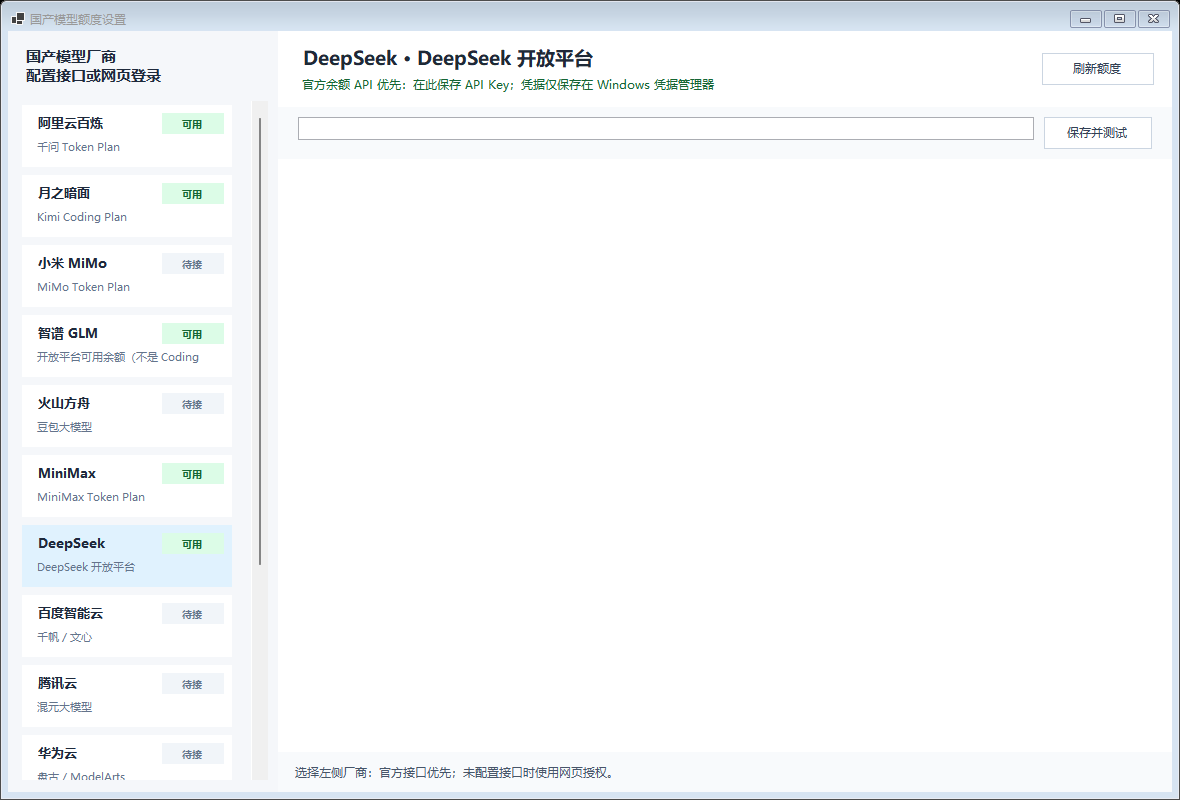
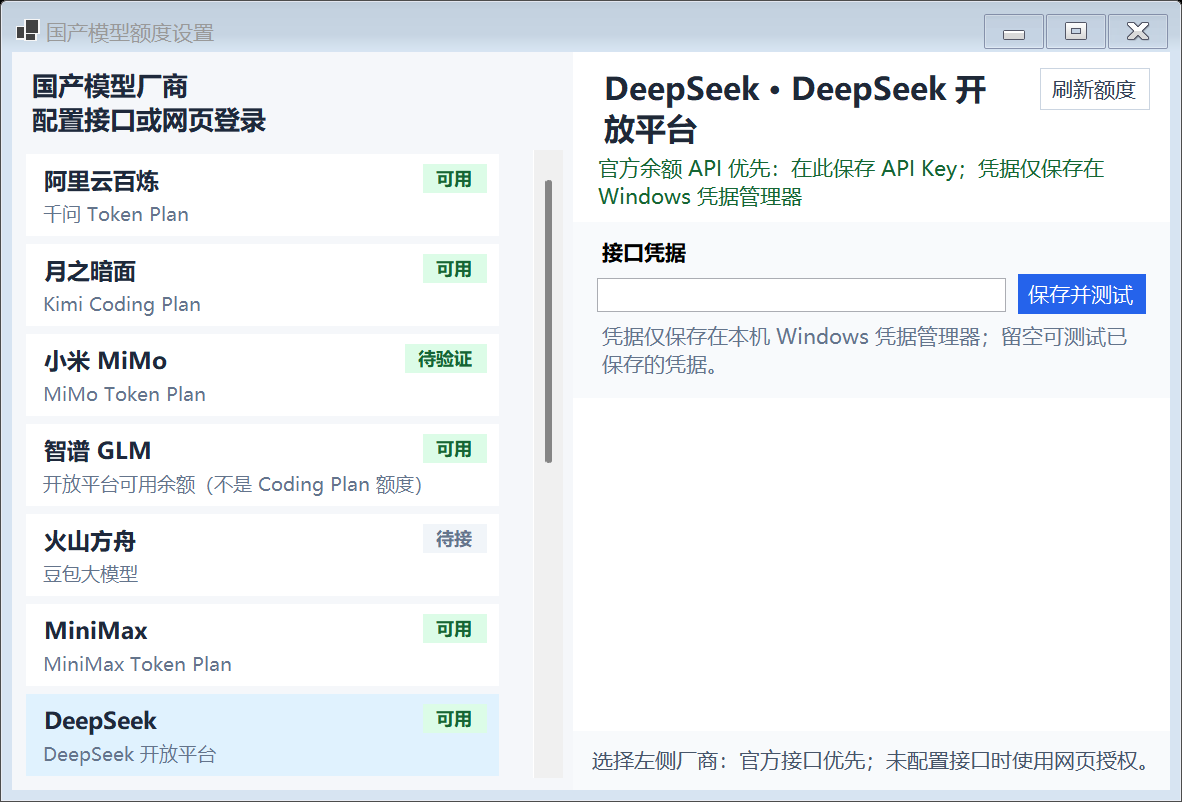
docs: refresh v0.2.0 homepage and quota screenshots

diff --git a/README.en.md b/README.en.md
@@ -3,7 +3,7 @@
   <img src="docs/assets/hero.en.svg" width="1120" alt="AI-bot: your AI, at a glance. Original desktop-screen concept, not a device screenshot.">
 </p>
 
-New adapters (v0.2.0 pre-release): StepFun API wallet, an explicit Baidu Qianfan model package, and MiMo console plan usage; live-account acceptance is pending. Other catalog providers remain unconnected, and cloud wallets are excluded. See [setup and integration status](docs/DOMESTIC_QUOTA_SETUP.md).
+**v0.2.0 pre-release:** prefer official quota APIs and configure credentials inside the bridge. Automatic checks and failure reminders cover only selected cycle pages or the fixed page, with prior authorization or configured credentials. New MiMo console, StepFun API-wallet and Baidu model-package adapters await live-account acceptance; cloud wallets are excluded. See [illustrated setup and integration status](docs/DOMESTIC_QUOTA_SETUP.md).
 
 <p align="center">
   <strong>A small screen for your AI workflow.</strong><br>
@@ -48,7 +48,7 @@ On Windows, Bridge service → Start at login uses a current-user scheduled task
 | Keep track of work | Keep your desk informed |
 | :--- | :--- |
 | **AI activity**<br>Working, idle and offline states for Claude / Codex; attention signals and an explicit main-task completion chime. | **Weather and time**<br>Local conditions, an independent clock and automatic screen saving. Keep the last successful data during temporary outages. |
-| **Quotas and balances**<br>Claude / Codex usage, resets and reset-credit details; Windows integrations for Alibaba, Kimi, MiniMax, DeepSeek and Zhipu. | **Music and markets**<br>Now-playing title, artwork and progress; paged watchlists for mainland China, Hong Kong and US markets. |
+| **Quotas and balances**<br>Claude / Codex usage, resets and reset-credit details; Windows integrations for Alibaba, Kimi, MiniMax, DeepSeek and Zhipu; new MiMo, StepFun and Baidu adapters await live-account acceptance. | **Music and markets**<br>Now-playing title, artwork and progress; paged watchlists for mainland China, Hong Kong and US markets. |
 | **System monitoring**<br>CPU, memory and network activity, with live traffic graphs and a screen mirror. | **Animated companions**<br>The original BYTE SPROUT, plus local images/GIFs with license notices. Choose pets independently for Claude and Codex. |
 
 **Choose what stays on screen.** Pin a page or cycle through quotas, weather, stocks
@@ -103,14 +103,14 @@ BYTE SPROUT works out of the box; pet imports are optional. These are actual Win
 <td align="center"><img src="docs/assets/screens/dual.png" width="240" alt="Dual quota sample"><br><strong>Dual quotas</strong></td>
 </tr>
 <tr>
-<td align="center"><img src="docs/assets/screens/domestic_kimi.png" width="240" alt="Kimi domestic model quota sample"><br><strong>Domestic model quota (Kimi)</strong></td>
+<td align="center"><img src="docs/assets/screens/domestic_deepseek.png" width="240" alt="DeepSeek official API balance with fictional data"><br><strong>Domestic model balance (DeepSeek)</strong></td>
 <td align="center"><img src="docs/assets/screens/weather.png" width="240" alt="Weather sample"><br><strong>Weather &amp; clock</strong></td>
 <td align="center"><img src="docs/assets/screens/system.png" width="240" alt="System monitor sample"><br><strong>System monitor</strong></td>
 </tr>
 <tr>
 <td align="center"><img src="docs/assets/screens/music.png" width="240" alt="Music sample"><br><strong>Music playback</strong></td>
 <td align="center"><img src="docs/assets/screens/stocks.png" width="240" alt="Stock quote sample"><br><strong>Stocks</strong></td>
-<td align="center"><img src="docs/assets/screens/screensaver.png" width="240" alt="Screensaver clock sample"><br><strong>Screensaver clock</strong></td>
+<td align="center"><img src="docs/assets/screens/screensaver.png" width="240" alt="Screensaver clock with lunar date"><br><strong>Lunar screensaver clock</strong></td>
 </tr>
 </table>
 
@@ -119,7 +119,7 @@ BYTE SPROUT works out of the box; pet imports are optional. These are actual Win
 
 The source screensaver now includes a lunar date with leap-month labels. Included in v0.2.0 packages; the device display requires updated firmware.
 
-See [domestic quota API/browser settings](docs/DOMESTIC_QUOTA_SETUP.md) for the v0.2.0 pre-release feature.
+**Setup:** right-click the tray → Model quotas → Domestic model quota settings. Full provider and plan labels are shown; API keys stay in Windows Credential Manager. See the [updated settings screenshot and guide](docs/DOMESTIC_QUOTA_SETUP.md). Unconfigured, never-authorized or unselected providers do not trigger automatic checks or failure reminders.
 
 ### Prepare the hardware
 

diff --git a/docs/SCREENSHOTS.md b/docs/SCREENSHOTS.md
@@ -70,6 +70,10 @@ The screensaver image reflects the lunar implementation included in v0.2.0 with 
 
 ## 国产额度接口设置预览 / Domestic quota API settings
 
-`api-settings.png` 是接口设置开发阶段的真实 WinForms 离线捕获，布局可能与新版略有差异，使用空凭据输入框，不初始化 WebView2、不访问真实凭据。复现：`dotnet run --project tools/doc-capture/DocCapture.csproj -c Release -- <output> --quota-api`，人工检查后取 `api-settings-deepseek.png`。
+`api-settings.png` 已更新为 v0.2.0 设置布局的真实 WinForms 离线捕获，使用空凭据输入框，不初始化 WebView2、不访问真实凭据。复现：`dotnet run --project tools/doc-capture/DocCapture.csproj -c Release -- <output> --quota-api`，人工检查后取 `api-settings-deepseek.png`。
 
 The API settings screenshot uses an isolated empty profile and does not access real credentials or initialize the browser. It is not proof of live-account API acceptance.
+
+2026-09-16：主页保留九张功能图，国产模型示例改为新版 DeepSeek 官方 API 余额渲染（28.50 CNY 为虚构数据）；Codex/Claude 萌宠图不变。接口设置图更新为完整厂商名称和换行布局；截图来自隔离预览，不含真实账号或密钥。
+
+Homepage refresh: nine feature images, including the new DeepSeek API balance render with fictional data and the lunar screensaver. Codex/Claude pets are preserved. The settings capture shows the current wrapping layout and contains no live credentials.
